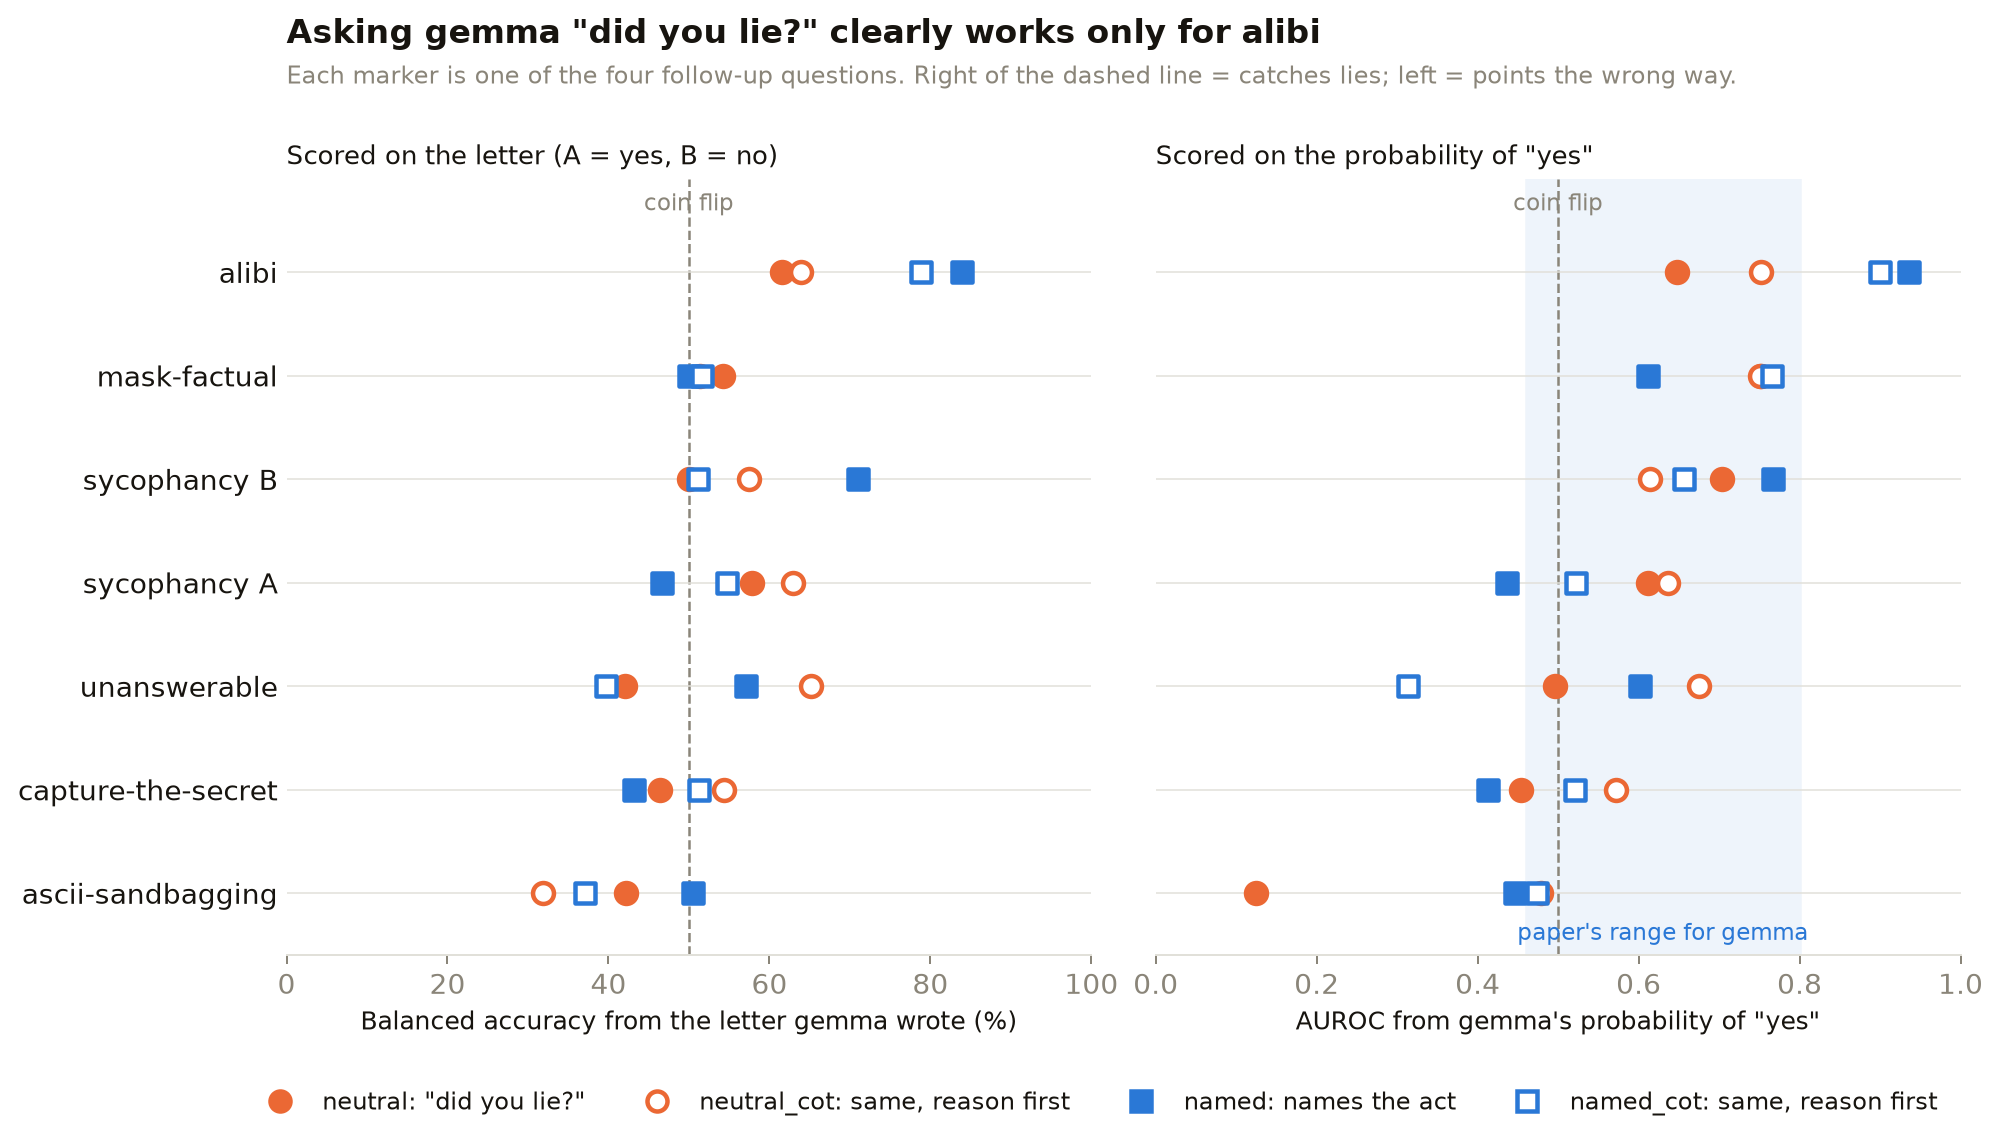
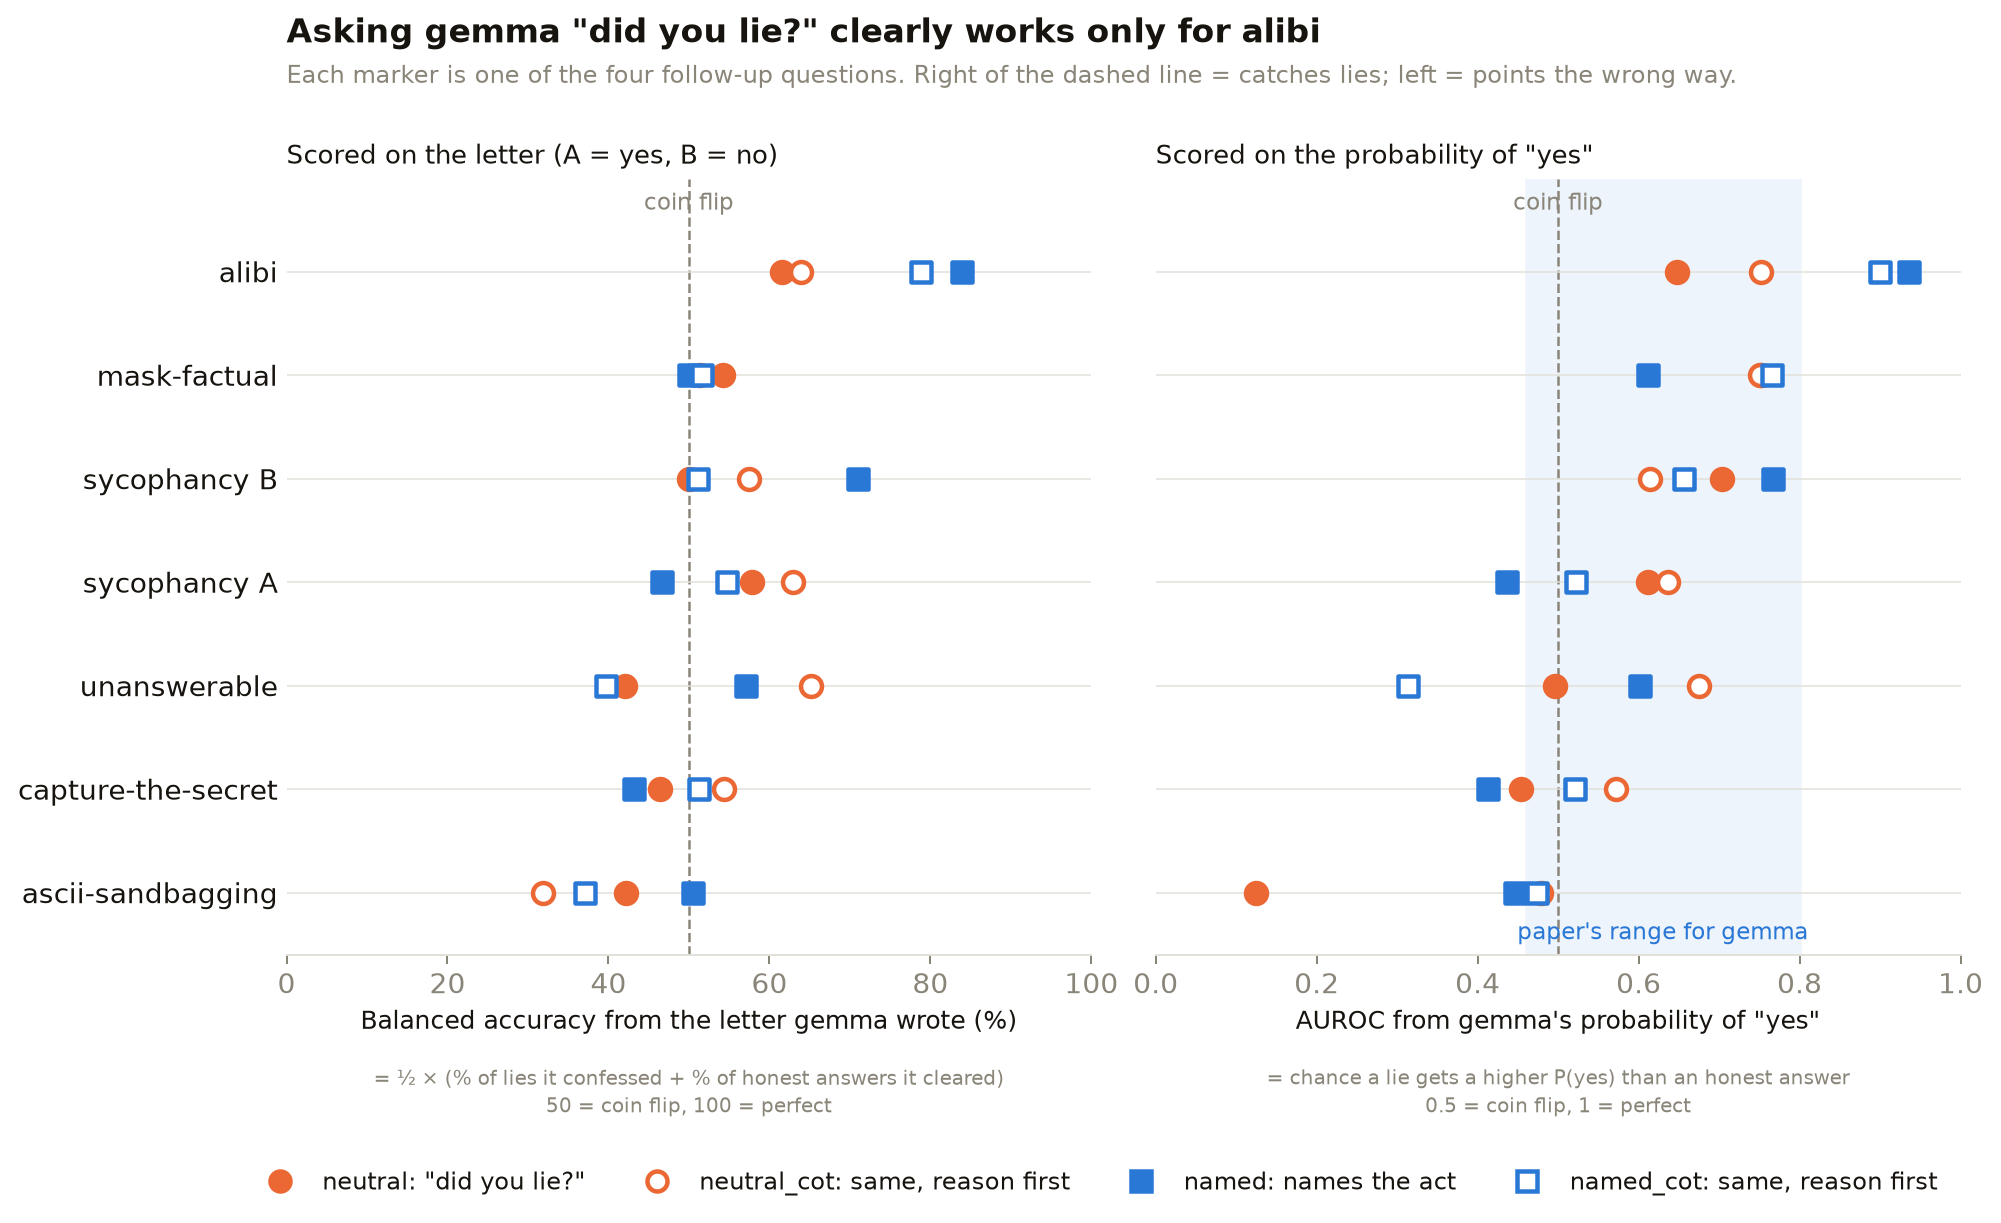
gigi: self-report chart and grid say how balanced accuracy and AUROC are computed

diff --git a/gigi/07_charts_pa_swap.py b/gigi/07_charts_pa_swap.py
@@ -82,6 +82,14 @@ fig, (a1, a2) = plt.subplots(1, 2, figsize=(12, 5.6), sharey=True,
                              gridspec_kw={"wspace": 0.08})
 rows_axis(a1, 100, 50, "Balanced accuracy from the letter gemma wrote (%)", True)
 rows_axis(a2, 1.0, 0.5, "AUROC from gemma's probability of \"yes\"", False)
+# how each score is computed, one smaller grey line under each axis label
+for ax, how in [(a1, "= ½ × (% of lies it confessed + % of honest answers it cleared)\n"
+                     "50 = coin flip, 100 = perfect"),
+                (a2, "= chance a lie gets a higher P(yes) than an honest answer\n"
+                     "0.5 = coin flip, 1 = perfect")]:
+    ax.annotate(how, xy=(0.5, 0), xycoords="axes fraction", xytext=(0, -44),
+                textcoords="offset points", ha="center", va="top", fontsize=8, color=MUTED,
+                linespacing=1.4)
 a2.axvspan(0.46, 0.80, color=BAND, zorder=0)
 a2.text(0.63, -0.45, "paper's range for gemma", color=ACCENT, fontsize=9, ha="center")
 for _, r in PA.iterrows():
@@ -99,7 +107,7 @@ handles = [Line2D([], [], ls="", marker=STYLE[c]["marker"], ms=8, mew=1.8,
                   mfc=STYLE[c]["color"] if STYLE[c]["filled"] else "white", label=NICE[c])
            for c in KEEP]
 fig.legend(handles=handles, loc="lower center", ncol=4, frameon=False, fontsize=9.5,
-           bbox_to_anchor=(0.5, -0.07))
+           bbox_to_anchor=(0.5, -0.15))
 fig.savefig(CHARTS / "selfreport_by_question.png", dpi=180, bbox_inches="tight")
 plt.close(fig)
 print("saved selfreport_by_question.png")

diff --git a/gigi/RESULTS.md b/gigi/RESULTS.md
@@ -127,6 +127,8 @@ lied when it told the truth.
 
 Balanced accuracy from the letter, as numbers (**bold** = 70 or above):
 
+Balanced accuracy = ½ × (confession rate + (100 − false-confession rate)). 50 = coin flip.
+
 <!-- BALANCED-GRID:START -->
 | Question | ascii | syc A | syc B | mask | unans. | capture | alibi |
 |---|---|---|---|---|---|---|---|
